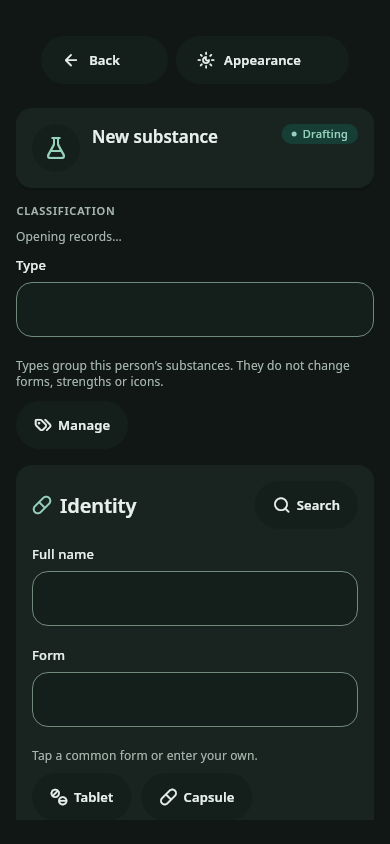
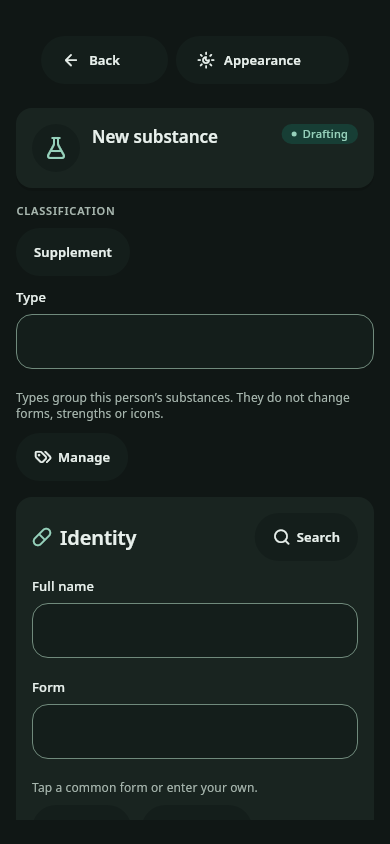
Capture loaded type choices and advance the screen rollout
- Wait for Create type choices before saving visual evidence.
- Replace the transient dark capture with the fully loaded form.
- Start the Inventory implementation after Create integration; verify five framework checks.

diff --git a/test/visual_framework_test.dart b/test/visual_framework_test.dart
@@ -154,6 +154,8 @@ void main() {
             // Draft restoration uses real asynchronous storage. Capture the
             // loaded form rather than its transient opening-records state.
             await waitForText(tester, 'New substance');
+            // Personal type choices have their own asynchronous query.
+            await waitForText(tester, 'Supplement');
           }
           if (route.key == 'today') {
             final loaded = Stopwatch()..start();

diff --git a/docs/design/roadmap.md b/docs/design/roadmap.md
@@ -89,7 +89,7 @@ The owner approved the closer Dashboard/Substances layout (`466d638`) and author
 | S01 | Create, `/create` | Real catalogue/custom identity, type/unit/product choices and durable Save. Schedule/stock require the saved item identity: use existing editors, with truthful save-first states; no nested draft controllers or invented atomic setup. | Integrated; 59 focused checks and analysis passed |
 | S02 | Record, `/record/:id` and correction mode | Restyle the existing DoseForm with sheet geometry. Preserve actual time/DST, exact amount/unit, stock/strength/source/product/site controls, recovery and return/Undo. Presets/context/vitals remain labelled previews where unsupported. | Implementing |
 | S03 | Schedule, `/schedule/:id` | Keep all six real modes, calendar/interval/block sections, pause/phase links, reminders and Preview then Save. Missing requirement/tolerance/follow-up rules are previews. | Implementing |
-| S04 | Stock, `/stock/me` | Real container balances, notices, source labels, Adjust/restock/waste/measure and Add. Forecast/capacity/lot/expiry/scanning stay explicit gaps under D13–D15. Never use an ambiguous bare +/- stock mutation. | Queued |
+| S04 | Stock, `/stock/me` | Real container balances, notices, source labels, Adjust/restock/waste/measure and Add. Forecast/capacity/lot/expiry/scanning stay explicit gaps under D13–D15. Never use an ambiguous bare +/- stock mutation. | Implementing |
 | S05 | Events, `/events` | Real event creation/detail/configuration/revisions, memberships, dates and end review. Show factual date progress, not adherence. Notes and whole-event recorded/skipped counts need storage/query support. | Queued |
 | S06 | History, `/history` | Reuse the calendar, cursor controller, filters, return/anchor state and source/correction/report/export routes. Share record actions and the dose-only `/recorded` compatibility surface; do not build a second timeline. | Queued |
 | S07 | Labs, `/supporting` | Restyle existing supporting records, panels, observations and trends; keep Add/detail/files/source/reports live. Latest-marker projections/categories need bounded factual reads or labelled previews. No invented risk/optimal/causal labels. | Queued |
